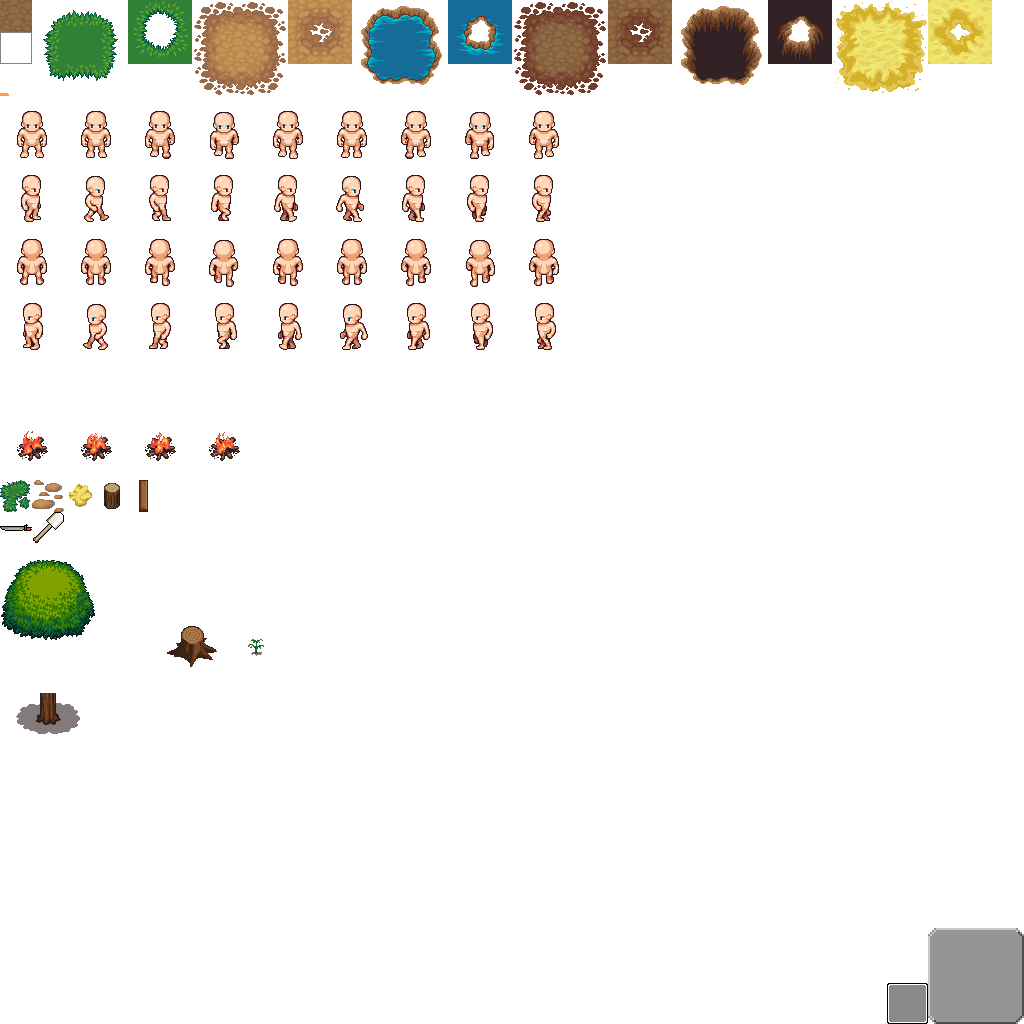
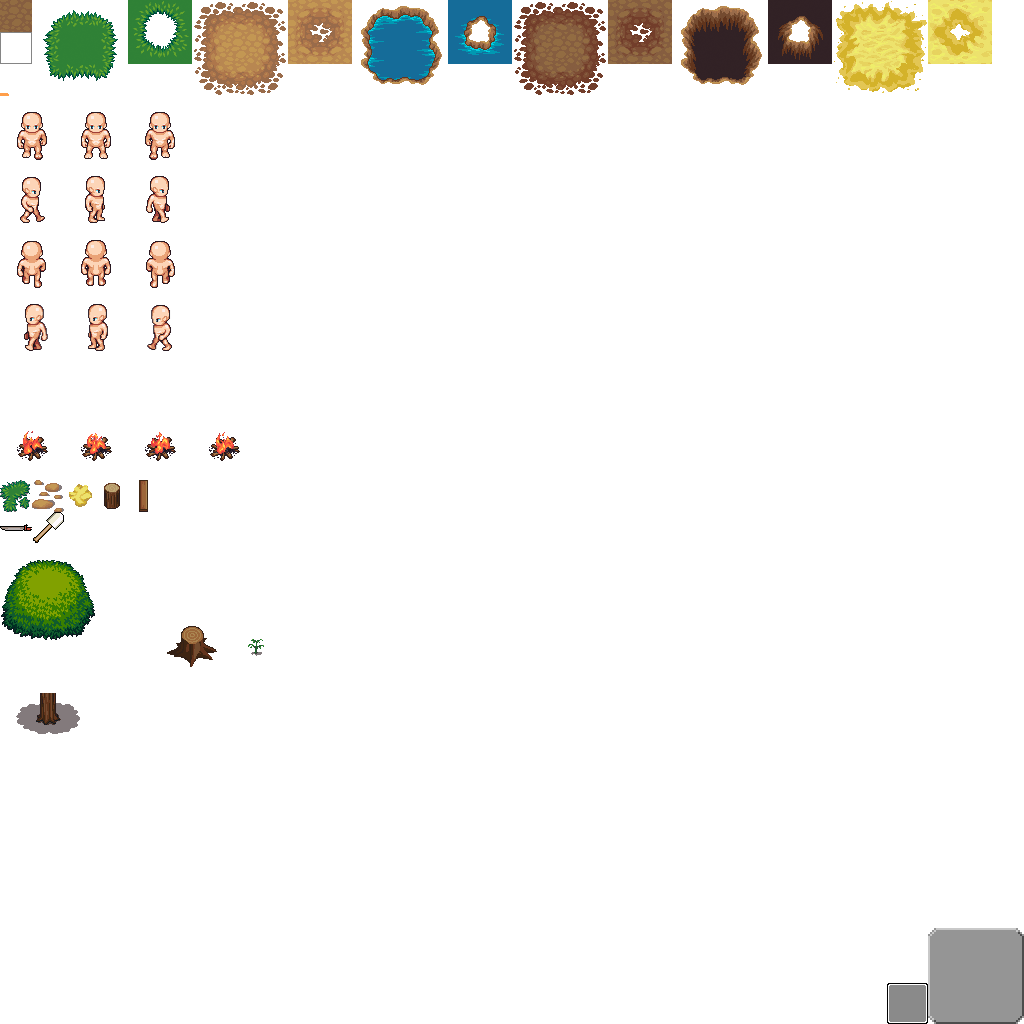
BOOM!  A 3 animation character...  A lot of work for a downgrade:(  But here comes armor next!

Changed region(s): [[0.0, 0.0938, 0.5625, 0.3438]]

diff --git a/src/com/madbros/adventurecraft/Hero.java b/src/com/madbros/adventurecraft/Hero.java
@@ -15,12 +15,12 @@ public class Hero {
 	//animations
 	Sprite[] animations;
 	
-	int[] walkingAnimationCycle = {1, 2, 3, 4, 5, 6, 7, 8};
+	int[] walkingAnimationCycle = {0, 1, 2, 1};
 	int currentAnimation = WALK_DOWN; //where the animation begins in the sprite animations array
 	int currentWalkingAnimationPos = 0;	//what part of the walk animation cycle are we in (0 through 3)
 	
 	int timeSinceLastAnimation = 0;
-	int animationTimePerFrame = 5;
+	int animationTimePerFrame = 8;
 
 	Margin margin = new Margin(17, 17, 29, 1); //new Margin(17, 17, 45, 1); //left, right, top, bottom
 	
